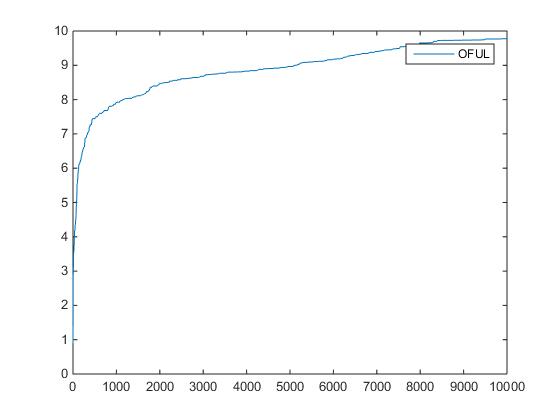
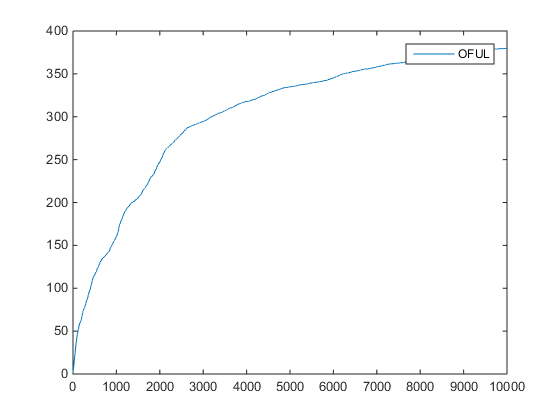
Good OFUL and minuscule r for rewards

diff --git a/Final Project/Report.tex b/Final Project/Report.tex
@@ -68,9 +68,9 @@ $$(\sum\limits_{1}^{t}  x_s x_s^{\top} ) \theta =   \sum\limits_{1}^{t} r_s x_s$
 which can be written in matricial form $A_t \theta = b_t$.
 \\Using this formula, even if the number of iterations grows, $A_t$ and $b_t$ remain of fixed size. At each iteration we update $A_t$, $b_t$ and the estimate $\hat{\theta}_t = A_t^{-1}b_t$. Since inversing $A_t$ in computationally costly, we might update it every $k$ iterations only, and thus use the same $\hat{\theta}_t$ for $k$ consecutive iterations.
 %
-\\[3mm]Initializing $A$ to $I_d$ corresponds to a ridge regression : indeed, if we denote $D_t$ the $t \times d$ design matrix at iteration $t$ : $D_t = \begin{pmatrix} x_1^{\top} \\ ... \\x_t^{\top} \end{pmatrix}$ and $R_t$ the rewards vector $\begin{pmatrix} r_1 \\ ... \\r_t \end{pmatrix}$ , we have: 
+\\[3mm]Initializing $A$ to $I_d$ corresponds to a ridge regression : indeed, if we denote $D_t$ the $t \times d$ design matrix at iteration $t$ : $D_t = \begin{pmatrix} x_1^{\top} \\ ... \\x_t^{\top} \end{pmatrix}$ and $r_t$ the rewards vector $\begin{pmatrix} r_1 \\ ... \\r_t \end{pmatrix}$ , we have: 
 %
-$$\hat{\theta}_t= (D_t^{\top} D_t + I_d)^{-1} D_t^{\top} R_t$$
+$$\hat{\theta}_t= (D_t^{\top} D_t + I_d)^{-1} D_t^{\top} r_t$$
 which is the formula for a least square ridge regression with regularization parameter equal to 1.
 %TODO influence of this parameter ?
 %
@@ -258,9 +258,9 @@ Typically, the OFUL algorithm is very similar to linUCB but $\alpha$ is replaced
 	\caption{Regret for OFUL algorithm}
 \end{figure}
 
-The final regret value is here around 10 whereas it was around 200 for linUCB with the best fitted $\alpha$.
+The final regret value is here around 400 whereas it was around 200 for linUCB with the best fitted $\alpha$.
 
-The best arm was effectively the most pulled and was pulled 978 times, similar to 944 for linUCB. But, for a given sample, OFUL better detects which arm is the best among the pool.
+The best arm was effectively the most pulled and was pulled 922 times, similar to 944 for linUCB. But, for a given sample, linUCB detects slightly better which arm is the best among the pool.
 %
 %
 \newpage
